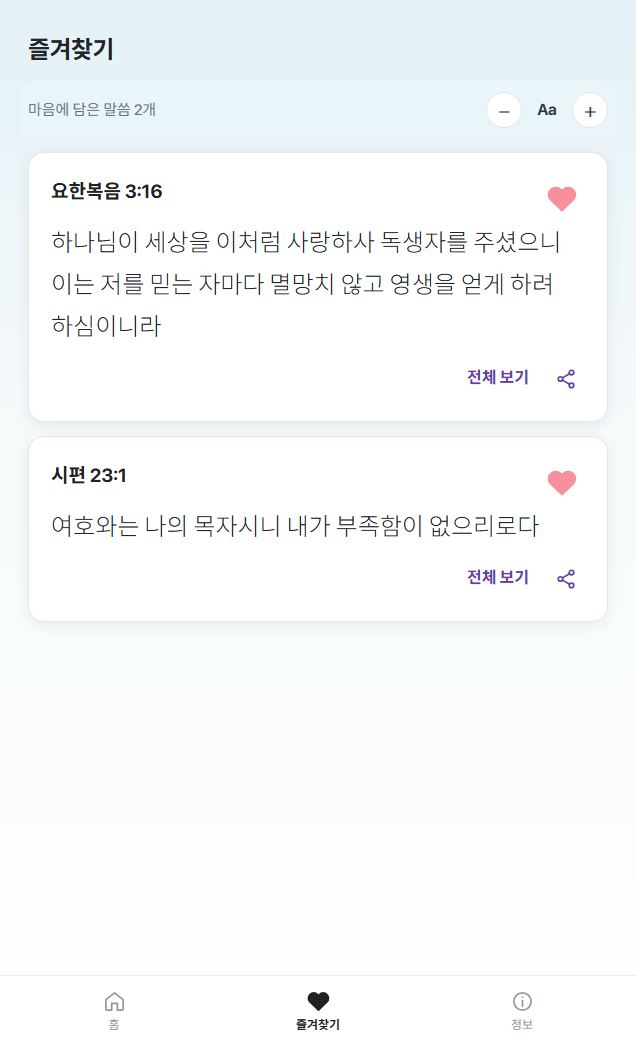
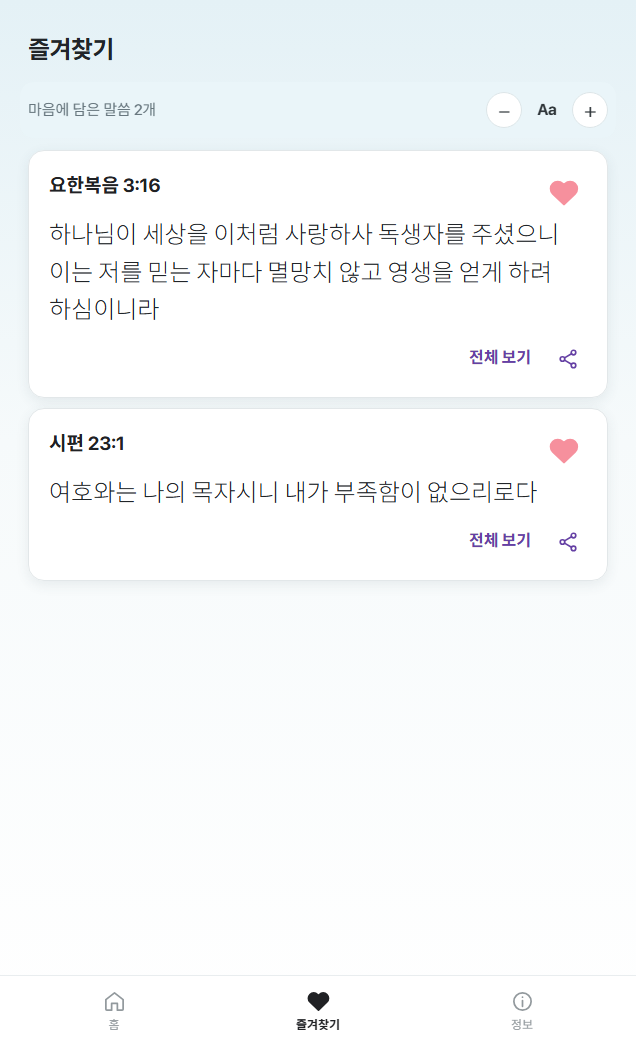
Refine reading density and chapter controls

diff --git a/toss-miniapp/src/style.css b/toss-miniapp/src/style.css
@@ -19,6 +19,9 @@ main { min-height: 100dvh; padding: 34px 28px calc(105px + var(--safe-bottom)); 
 .page-heading { margin-bottom: 12px; }
 .detail-heading { display: flex; align-items: center; gap: 12px; }
 .detail-heading h1 { margin: 0; }
+.chapter-heading .font-controls { margin: 0 0 0 auto; gap: 4px; }
+.chapter-heading .round-control { width: 36px; height: 36px; box-shadow: none; border: 1px solid rgba(130,118,64,.2); font-size: 21px; }
+.chapter-heading .font-reset { min-width: 42px; padding: 7px 8px; font-size: 16px; }
 .back-button { display: grid; place-items: center; flex: 0 0 44px; width: 44px; height: 44px; padding: 0; border: 0; border-radius: 50%; background: rgba(255,255,255,.72); color: #202124; font-size: 27px; line-height: 1; }
 .eyebrow { color: #667780; font-size: 13px; font-weight: 700; margin: 0 0 8px; }
 h1 { font-size: 27px; line-height: 1.35; letter-spacing: -.7px; margin: 0 0 12px; word-break: keep-all; }
@@ -47,7 +50,7 @@ blockquote { margin: 0; line-height: 1.75; letter-spacing: -.35px; overflow-wrap
 .bottom-nav button { min-height: 58px; border: 0; background: transparent; color: #92999d; font-size: 12px; border-radius: 12px; display: grid; place-items: center; align-content: center; gap: 3px; }
 .bottom-nav button svg { width: 23px; height: 23px; }
 .bottom-nav button[aria-current] { color: #202124; font-weight: 700; }
-.favorite-card { padding: 23px 22px; margin: 14px 0; background: rgba(255,255,255,.97); border: 1px solid #e2e7e9; border-radius: 16px; box-shadow: 0 4px 13px rgba(55,76,88,.09); }
+.favorite-card { padding: 19px 20px; margin: 10px 0; background: rgba(255,255,255,.97); border: 1px solid #e2e7e9; border-radius: 16px; box-shadow: 0 4px 13px rgba(55,76,88,.09); }
 .favorites-toolbar { position: sticky; top: 0; z-index: 4; display: flex; align-items: center; justify-content: space-between; gap: 16px; margin: 4px -8px 12px; padding: 9px 8px; border-radius: 14px; background: rgba(234,245,248,.9); backdrop-filter: blur(10px); }
 .favorites-toolbar .muted { margin: 0; white-space: nowrap; }
 .favorites-toolbar .font-controls { margin: 0; gap: 4px; }
@@ -58,6 +61,7 @@ blockquote { margin: 0; line-height: 1.75; letter-spacing: -.35px; overflow-wrap
 .favorite-footer { display: flex; justify-content: flex-end; align-items: center; gap: 10px; margin-top: 10px; }
 .favorite-footer button { border: 0; background: transparent; color: #6540a4; padding: 8px; font-weight: 700; }
 .favorite-footer svg { width: 22px; height: 22px; }
+.favorite-card .verse-text { line-height: 1.55; }
 .reference { color: #202124; font-size: 19px; font-weight: 700; margin: 0 0 14px; }
 .verse-text { line-height: 1.75; margin: 0; overflow-wrap: anywhere; word-break: keep-all; font-weight: 300; }
 .actions { display: flex; flex-wrap: wrap; gap: 8px; margin: 14px 0 0; }
@@ -65,10 +69,11 @@ blockquote { margin: 0; line-height: 1.75; letter-spacing: -.35px; overflow-wrap
 .footnote { text-align: center; font-size: 13px; margin: 24px 0; }
 .empty { padding: 40px 0; text-align: center; color: #53636c; }
 .empty h2 { color: #202124; }
-.chapter-list { list-style: none; margin: 20px -12px 0; padding: 0; }
-.chapter-list li { display: grid; grid-template-columns: 28px 1fr; gap: 8px; padding: 18px 14px; border-radius: 8px; }
+.chapter-list { list-style: none; margin: 12px -10px 0; padding: 0; }
+.chapter-list li { display: grid; grid-template-columns: 32px 1fr; gap: 6px; padding: 12px 12px; border-radius: 8px; }
 .chapter-list li.selected { background: #fff2a8; }
-.verse-number { color: #69777e; font-size: 14px; padding-top: 8px; }
+.chapter-list .verse-text { line-height: 1.55; }
+.verse-number { color: #58656a; font-size: 17px; font-weight: 700; padding-top: 5px; }
 .chapter-list .actions { margin: 10px 0 0; }
 .page-favorites .page-heading, .page-info .page-heading { margin-bottom: 16px; }
 .page-favorites .page-heading h1, .page-info .page-heading h1 { margin: 0; font-size: 24px; }

diff --git a/toss-miniapp/src/App.tsx b/toss-miniapp/src/App.tsx
@@ -121,7 +121,7 @@ export function App() {
 
   return <div className={`app page-${route.page}`}>
     <main>
-      {route.page !== 'today' && <header className={`page-heading ${isDetailPage ? 'detail-heading' : ''}`}>{isDetailPage && <button className="back-button" aria-label="이전 화면으로 돌아가기" onClick={goBack}>←</button>}<div><h1 ref={heading} tabIndex={-1}>{title}</h1></div></header>}
+      {route.page !== 'today' && <header className={`page-heading ${isDetailPage ? 'detail-heading' : ''} ${route.page === 'chapter' ? 'chapter-heading' : ''}`}>{isDetailPage && <button className="back-button" aria-label="이전 화면으로 돌아가기" onClick={goBack}>←</button>}<div><h1 ref={heading} tabIndex={-1}>{title}</h1></div>{route.page === 'chapter' && fontControls}</header>}
       <p className="status" role="status" aria-live="polite">{notice}</p>
       {!bible && !error && <p role="status" className="empty">말씀을 준비하고 있어요…</p>}
       {error && <div className="empty" role="alert"><p>{error}</p><Button onClick={() => { setError(''); setAttempt(a => a + 1); }}>다시 불러오기</Button></div>}
